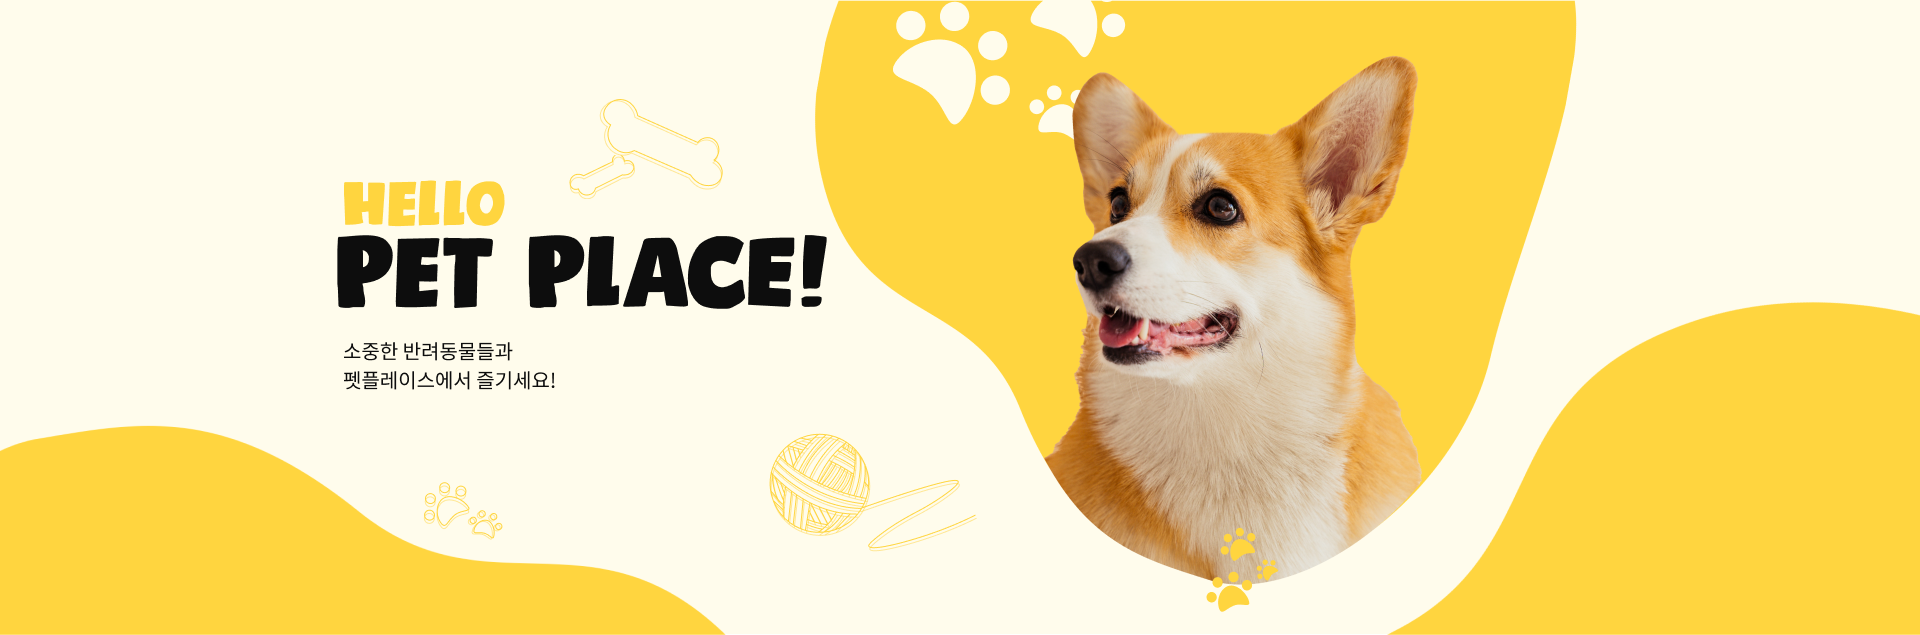
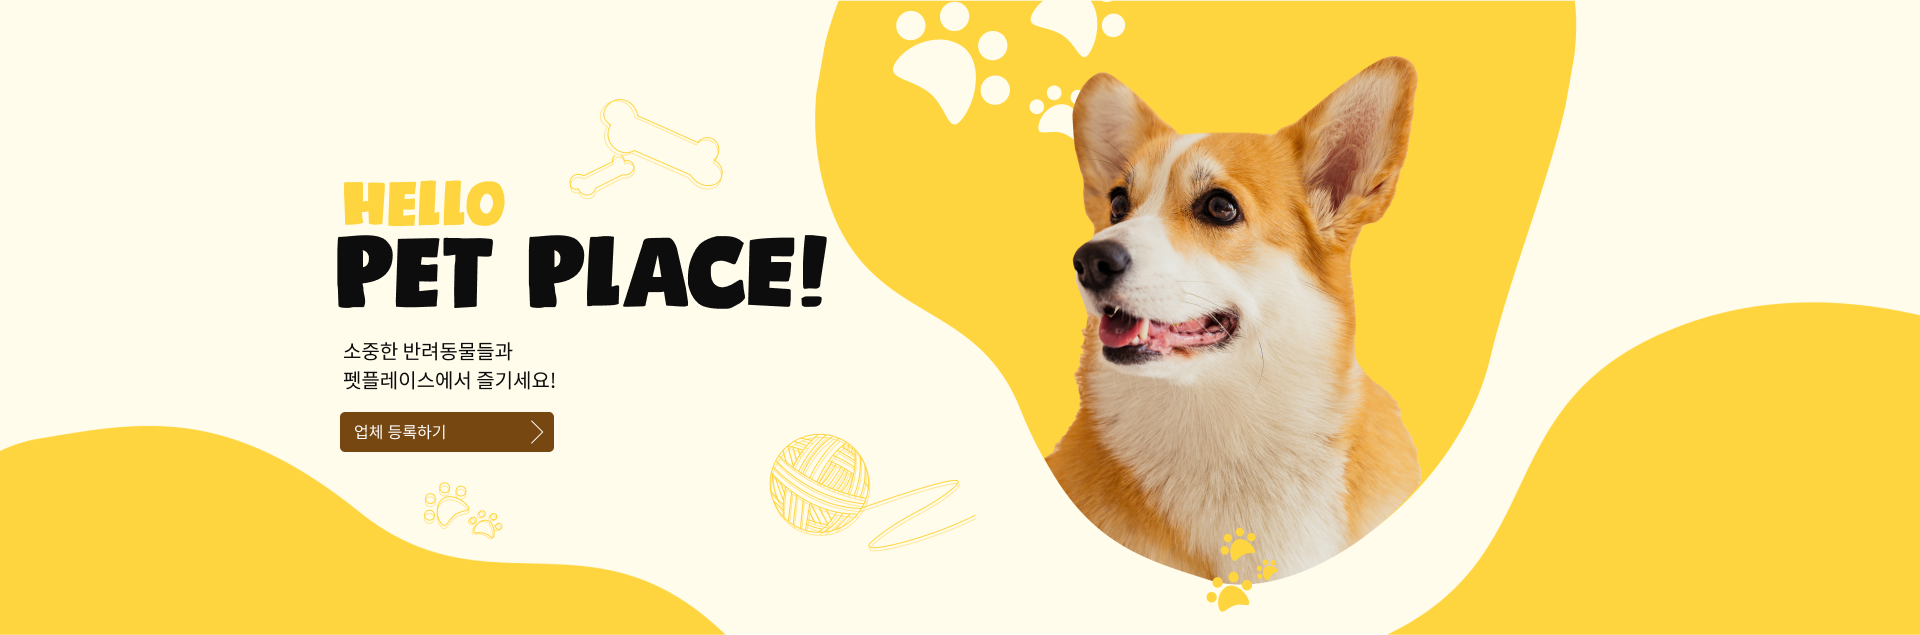
no message

Changed region(s): [[0.1562, 0.6283, 0.3125, 0.7181]]

diff --git a/src/components/main/Banner/Banner.jsx b/src/components/main/Banner/Banner.jsx
@@ -4,6 +4,7 @@ import { useNavigate } from "react-router-dom";
 import main1 from "../../../style/img/banner1.png";
 import main2 from "../../../style/img/banner2.png";
 import main3 from "../../../style/img/banner3.png";
+import main4 from "../../../style/img/banner4.png";
 import {
   StContainer,
   StWrap,
@@ -34,15 +35,24 @@ function Banner() {
           pagination={{ clickable: true }}
         >
           <SwiperSlide>
-            <StImg src={main1} style={{ marginTop: "-5px" }} />
-            {cookies.loginType === "BUSINESS" && (
+            {cookies.loginType === "BUSINESS" ? (
+              <StImg
+                src={main1}
+                style={{ marginTop: "-5px", cursor: "pointer" }}
+                onClick={() => navigate("/ownerpost")}
+              />
+            ) : (
+              <StImg src={main4} style={{ marginTop: "-5px" }} />
+            )}
+            {/* <StImg src={main1} style={{ marginTop: "-5px" }} /> */}
+            {/* {cookies.loginType === "BUSINESS" && (
               <StPostBtn>
                 <StClickBtn onClick={() => navigate("/ownerpost")}>
                   업체 등록하기
                   <div>{">"}</div>
                 </StClickBtn>
               </StPostBtn>
-            )}
+            )} */}
           </SwiperSlide>
           <SwiperSlide>
             <StImg src={main2} style={{ marginTop: "-5px" }} />

diff --git a/src/components/main/Banner/BannerStyle.jsx b/src/components/main/Banner/BannerStyle.jsx
@@ -40,7 +40,8 @@ const StClickBtn = styled.button`
   border-radius: 10px;
   border: none;
   font-size: 22px;
-  background-color: #ffd53f;
+  color: #fff;
+  background-color: #764811;
   display: flex;
   justify-content: space-between;
   line-height: 45px;
